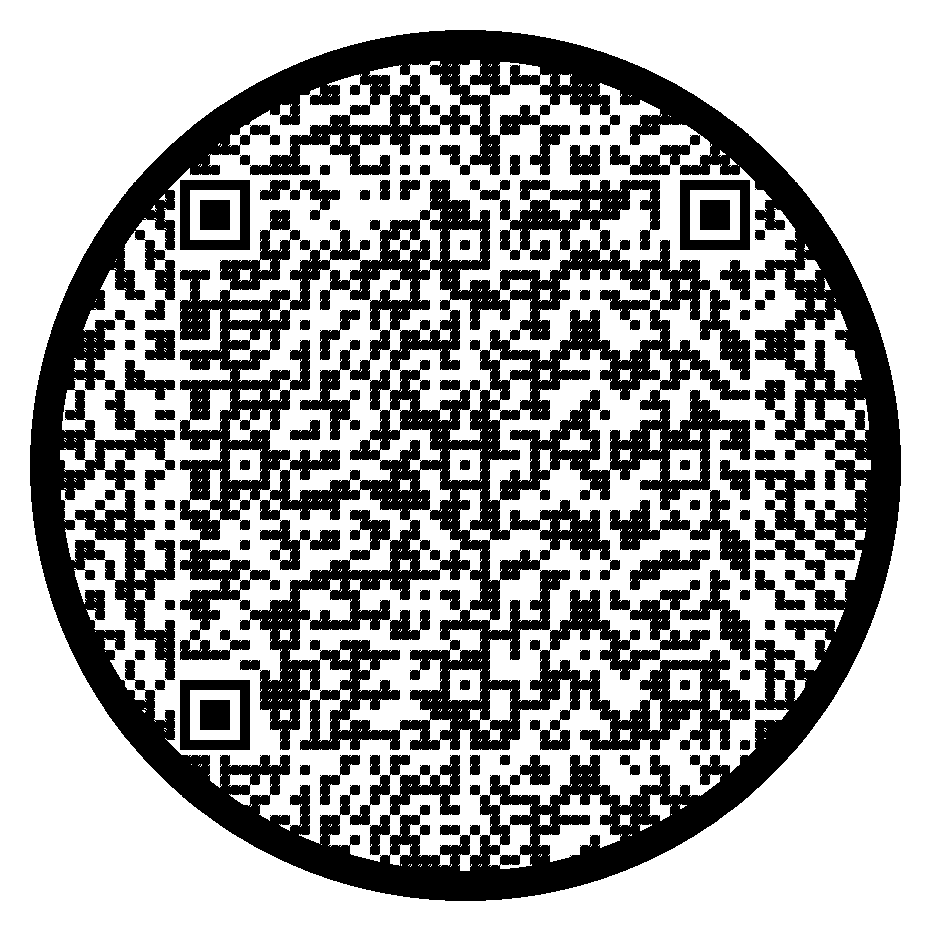
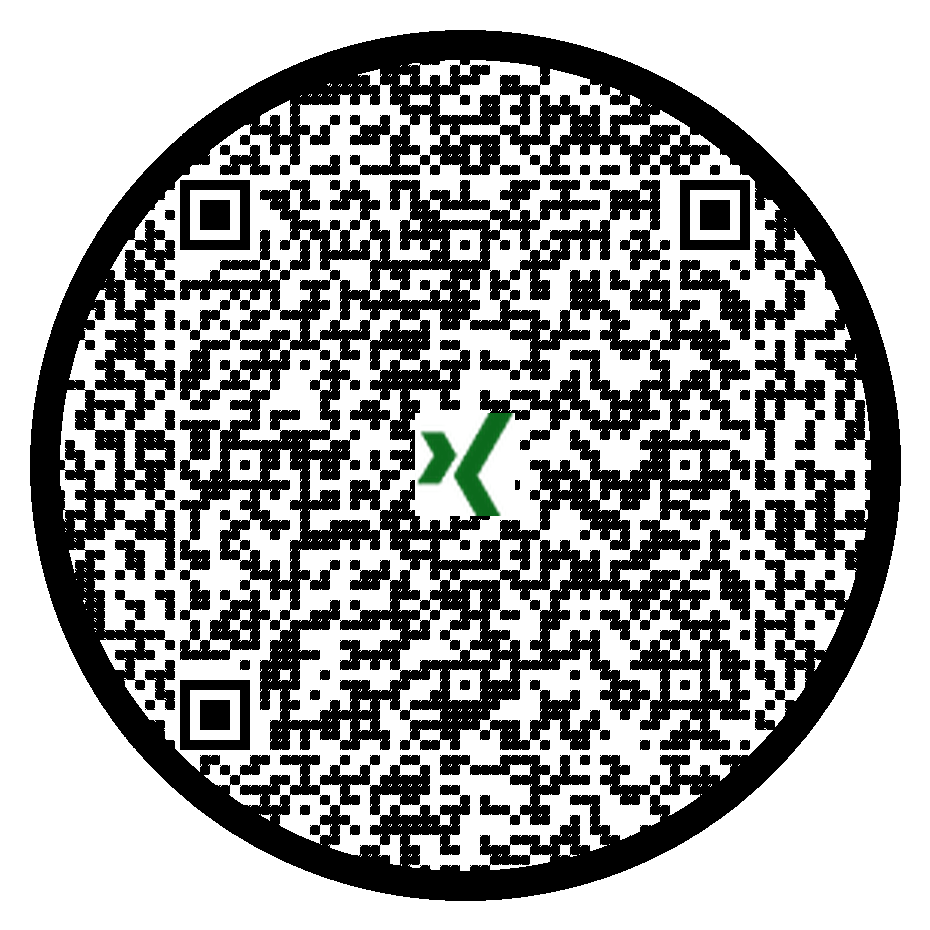
Added image to qr code

Changed region(s): [[0.0624, 0.0624, 0.9355, 0.9355]]

diff --git a/qr1.py b/qr1.py
@@ -1,0 +1,52 @@
+# import modules
+import qrcode
+from PIL import Image, ImageDraw
+ 
+# taking image which user wants 
+# in the QR code center
+Logo_link = 'favicon.png'
+ 
+logo = Image.open(Logo_link)
+ 
+# taking base width
+basewidth = 100
+ 
+# adjust image size
+wpercent = (basewidth/float(logo.size[0]))
+hsize = int((float(logo.size[1])*float(wpercent)))
+logo = logo.resize((basewidth, hsize), Image.ANTIALIAS)
+
+# Create a function to generate QR code with concentric circles and image
+def generate_concentric_qr(url, logo, basewidth, QRcolor, output_path='output.png'):
+    # Create a QR code
+    QRcode = qrcode.QRCode(
+        error_correction=qrcode.constants.ERROR_CORRECT_H
+    )
+    QRcode.add_data(url)
+    QRcode.make()
+    
+    # Create a blank image for the QR code
+    QRimg = QRcode.make_image(fill_color=QRcolor, back_color="white").convert('RGB')
+
+    # Draw concentric circles around the QR code
+    draw = ImageDraw.Draw(QRimg)
+    for radius in range(20, 100, 20):  # Adjust the range based on your preference
+        draw.ellipse(
+            (pos[0] - radius, pos[1] - radius, pos[0] + radius, pos[1] + radius),
+            outline='black', width=2
+        )
+
+    # Set the size and position of the image to be pasted
+    pos = ((QRimg.size[0] - logo.size[0]) // 2, (QRimg.size[1] - logo.size[1]) // 2)
+    
+    # Paste the logo onto the QR code
+    QRimg.paste(logo, pos)
+    
+    # Save the QR code with concentric circles and image
+    QRimg.save(output_path)
+    print(f'QR code with concentric circles and image saved to {output_path}')
+
+# Example usage
+url = 'https://www.geeksforgeeks.org/'
+QRcolor = 'Green'
+generate_concentric_qr(url, logo, basewidth, QRcolor, output_path='gfg_QR.png')

diff --git a/generate_qr_code.py b/generate_qr_code.py
@@ -109,5 +109,26 @@ background_img.paste(img, (0, 0), img)
 # Show the final result
 show_qr(background_img)
 
+# taking image which user wants 
+# in the QR code center
+Logo_link = 'favicon.png'
+ 
+logo = Image.open(Logo_link)
+
+basewidth = 100
+
+# adjust image size
+wpercent = (basewidth/float(logo.size[0]))
+hsize = int((float(logo.size[1])*float(wpercent)))
+logo = logo.resize((basewidth, hsize), Image.LANCZOS)
+QRcode = qrcode.QRCode(
+    error_correction=qrcode.constants.ERROR_CORRECT_H
+)
+
+# set size of QR code
+pos = ((img.size[0] - logo.size[0]) // 2,
+       (img.size[1] - logo.size[1]) // 2)
+img.paste(logo, pos)
+
 # Save the QR code with a transparent background
 img.save('circl_qr_code.png', "PNG", quality=100)
